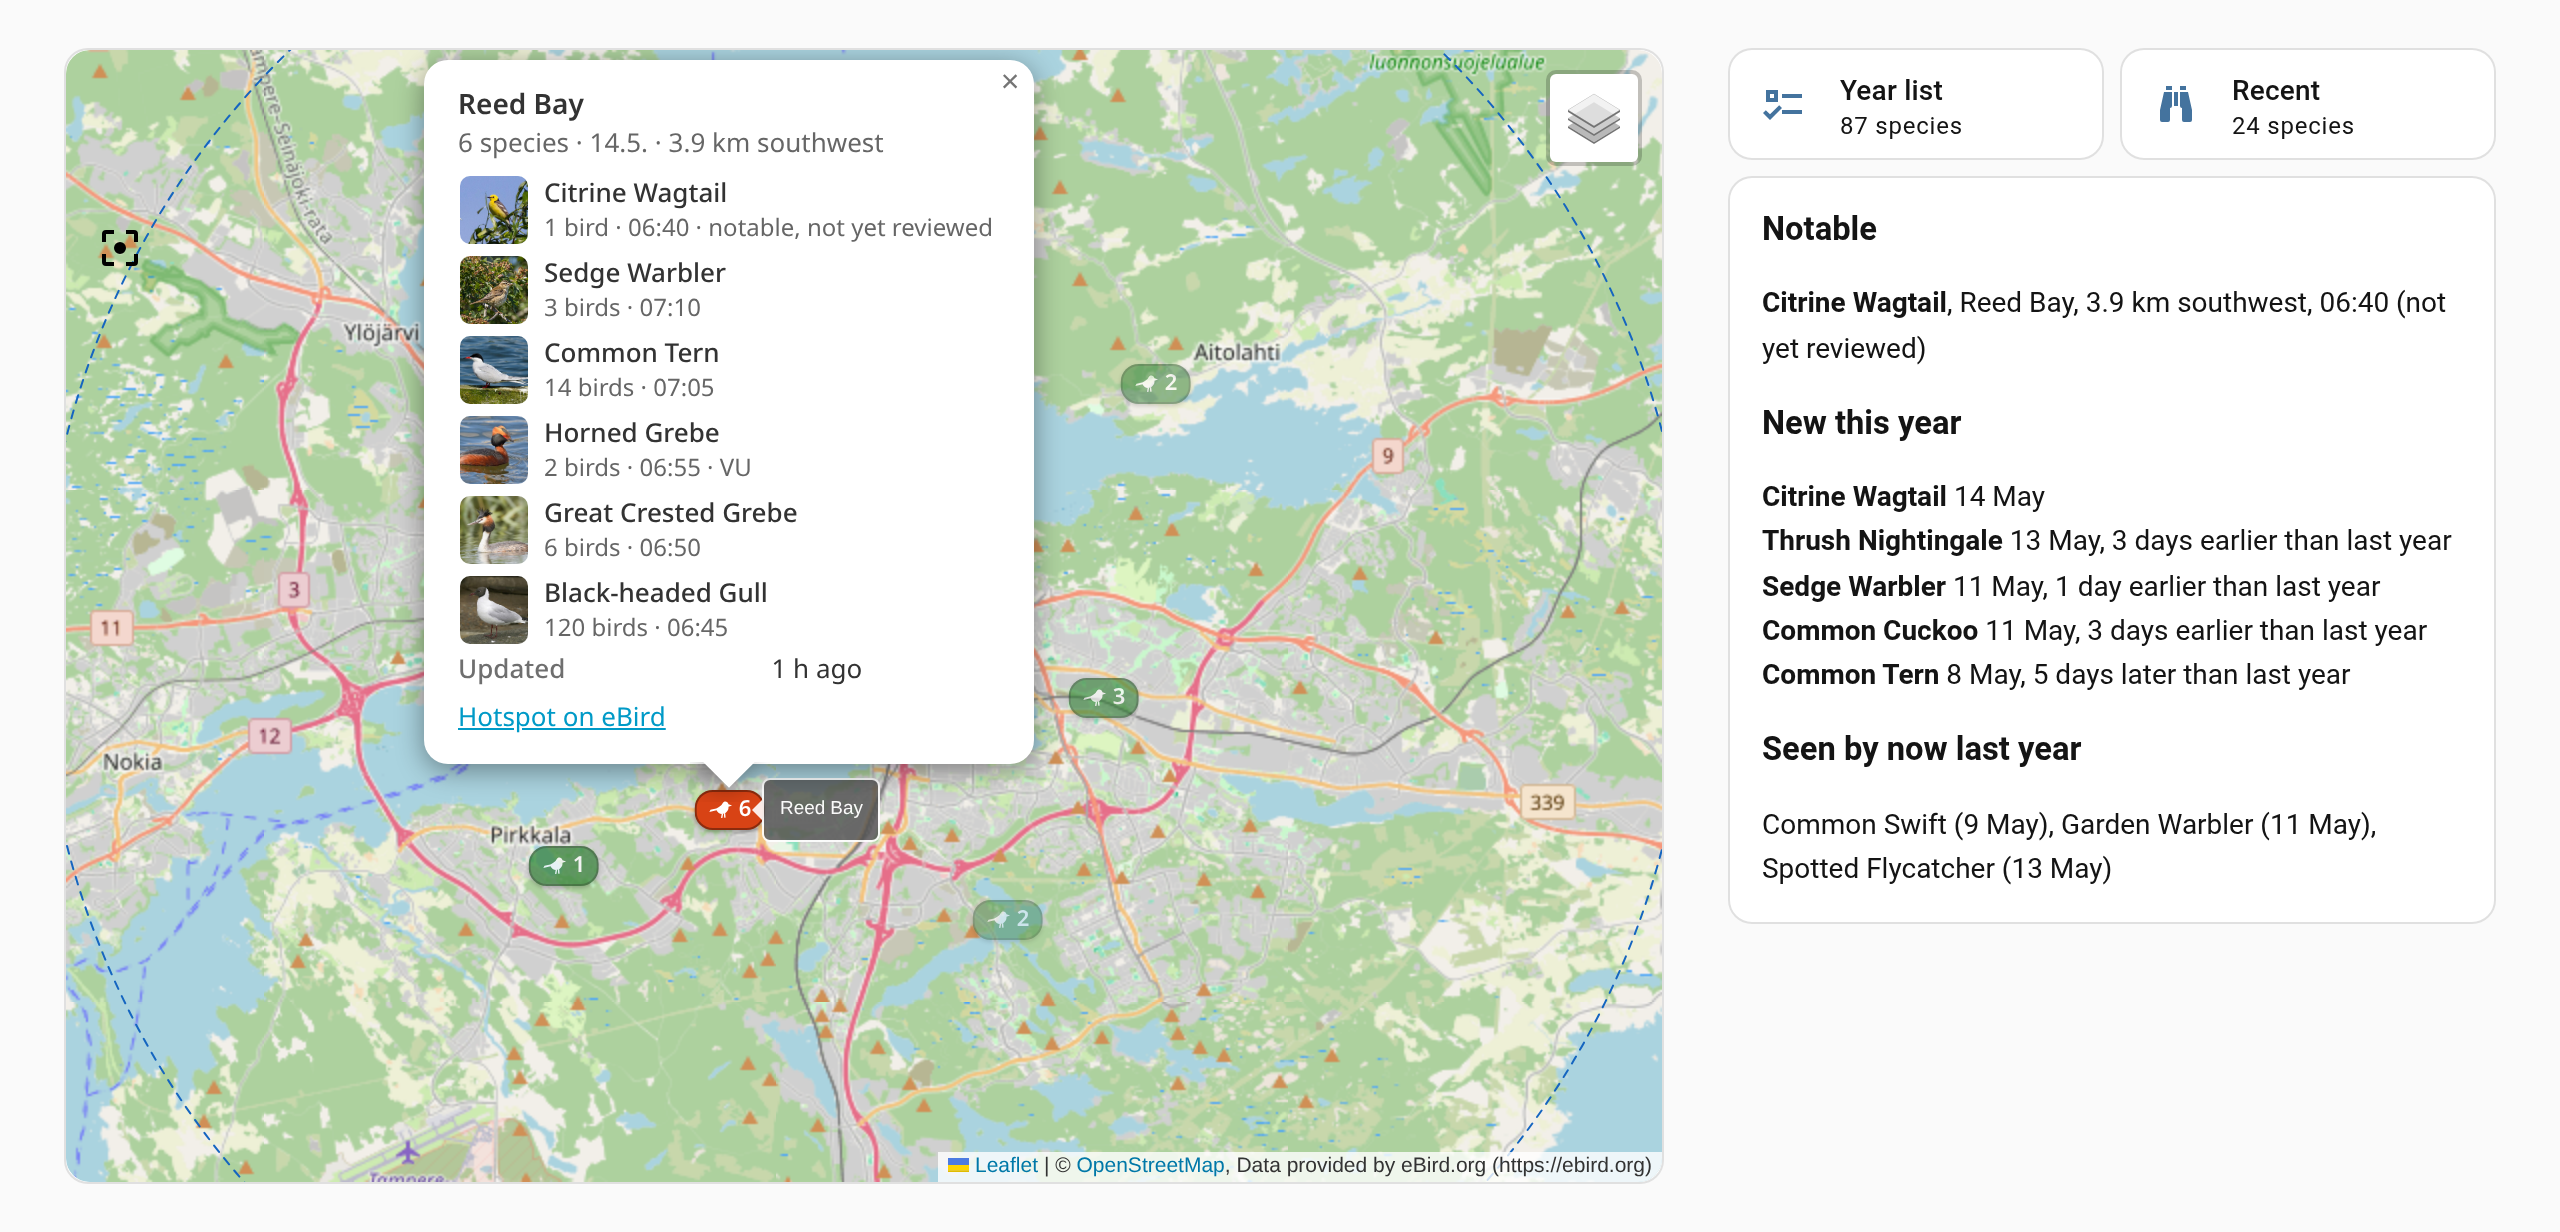
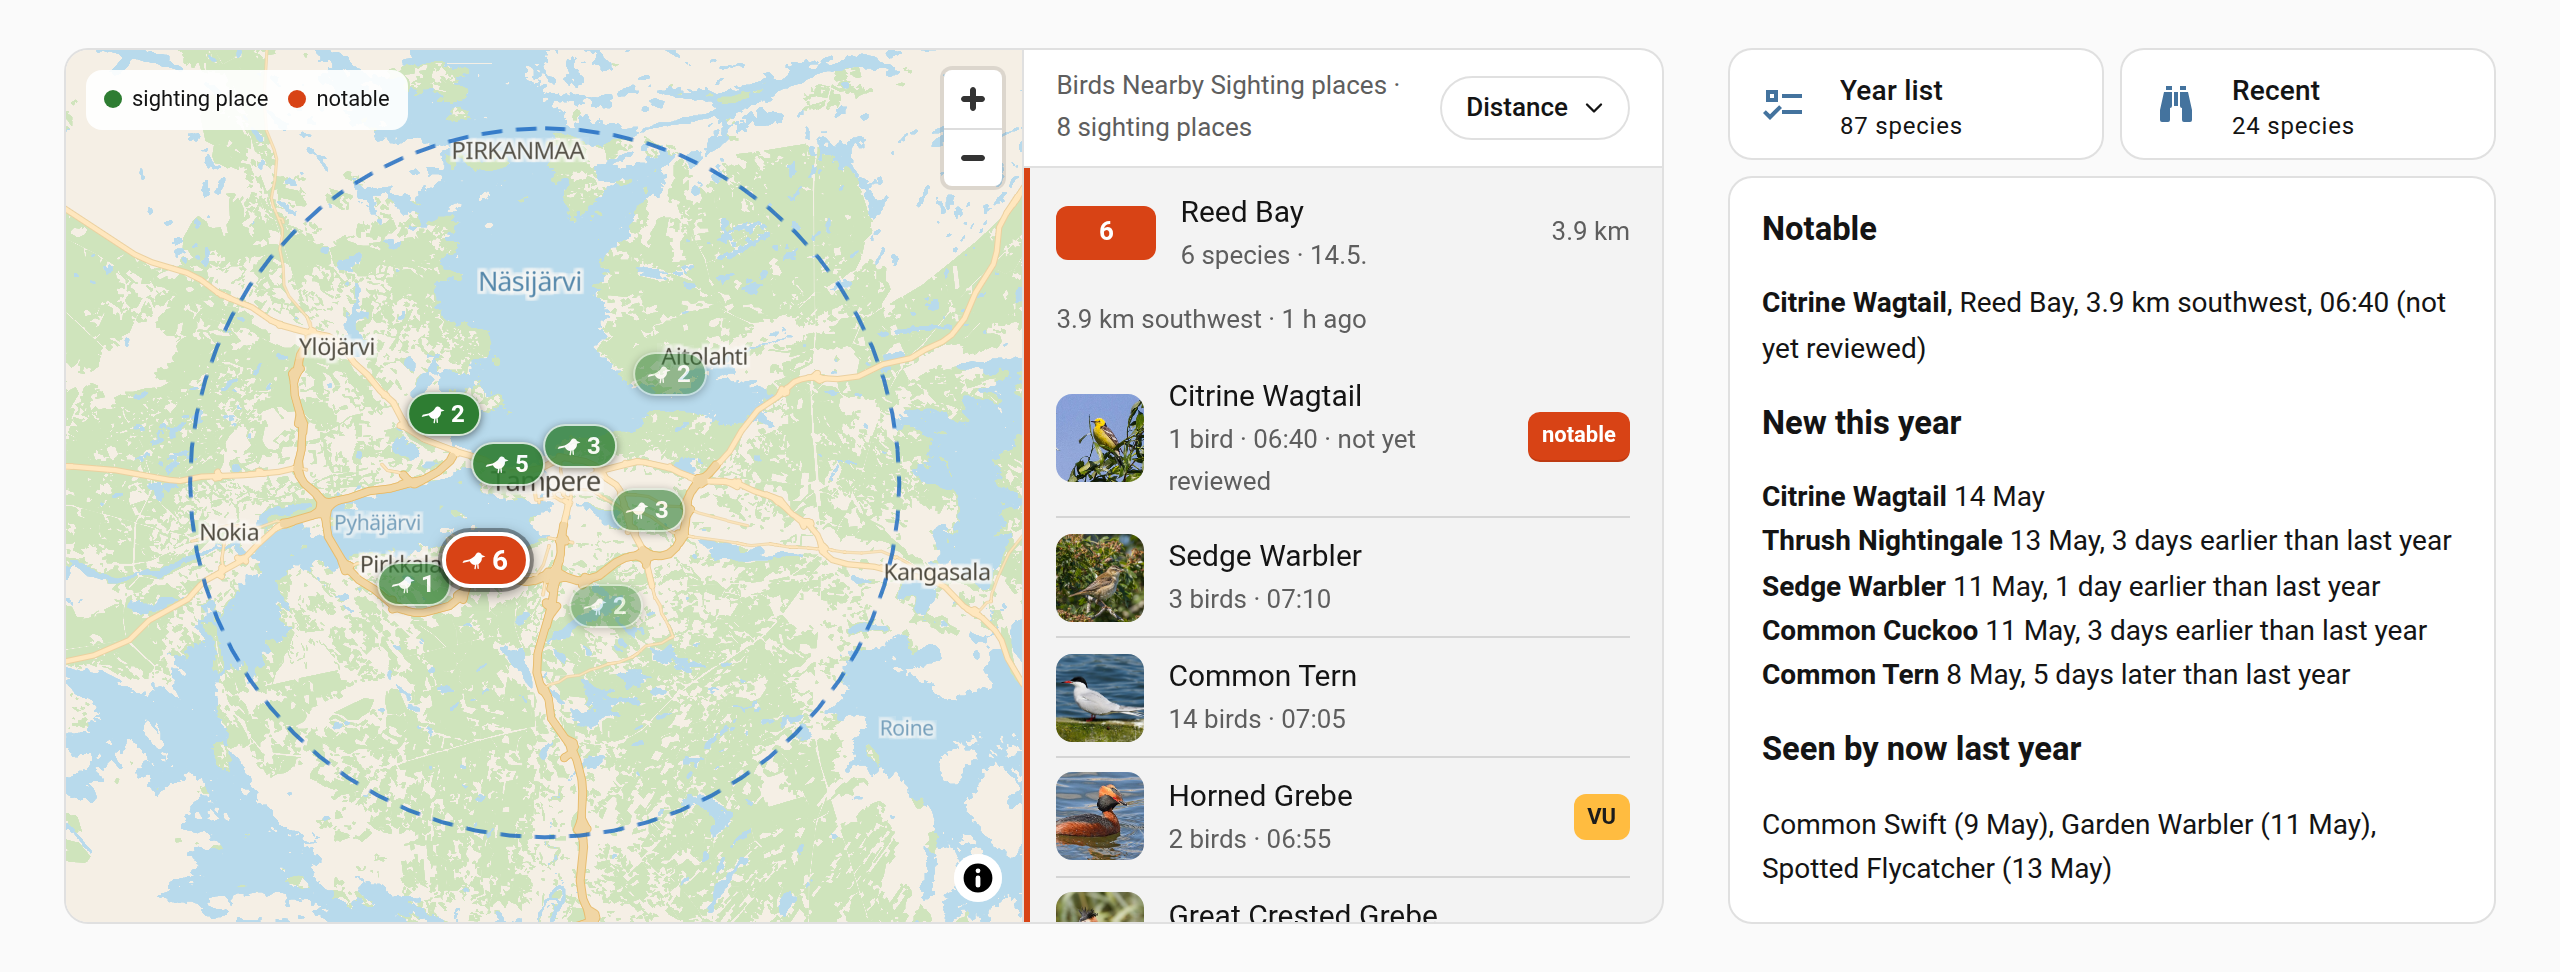
Screenshots with map-feed-card
The dashboard's map is map-feed-card with its list instead of ha-map-card with the plugin, and the made-up feed carries what 1.2.0 writes: its legend, list orders, distances, list rows and tags.

diff --git a/README.md b/README.md
@@ -5,8 +5,8 @@ first sightings of the year, and the sightings on a map.
 
 [![GitHub Release][releases-shield]][releases] [![GitHub Release Date][release-date-shield]][releases] [![HACS][hacs-shield]][hacs] [![License][license-shield]](LICENSE)
 
-<img src="https://raw.githubusercontent.com/jesmak/birds_nearby/main/docs/images/dashboard-light.png#gh-light-mode-only" width="1280" alt="A dashboard around Tampere, with a map of eight places where birds were seen, older ones fainter, and the popup of a place with a notable sighting listing six species with their pictures. Beside it the year list and recent species counts, and lists of the notable sighting, the newest species of the year compared with last year and the species seen by this date last year but not yet">
-<img src="https://raw.githubusercontent.com/jesmak/birds_nearby/main/docs/images/dashboard-dark.png#gh-dark-mode-only" width="1280" alt="A dashboard around Tampere, with a map of eight places where birds were seen, older ones fainter, and the popup of a place with a notable sighting listing six species with their pictures. Beside it the year list and recent species counts, and lists of the notable sighting, the newest species of the year compared with last year and the species seen by this date last year but not yet">
+<img src="https://raw.githubusercontent.com/jesmak/birds_nearby/main/docs/images/dashboard-light.png#gh-light-mode-only" width="1280" alt="A dashboard around Tampere, with a map of eight places where birds were seen, older ones fainter, and the list of them beside it, the place with a notable sighting open to its six species with their pictures and tags. Beside it the year list and recent species counts, and lists of the notable sighting, the newest species of the year compared with last year and the species seen by this date last year but not yet">
+<img src="https://raw.githubusercontent.com/jesmak/birds_nearby/main/docs/images/dashboard-dark.png#gh-dark-mode-only" width="1280" alt="A dashboard around Tampere, with a map of eight places where birds were seen, older ones fainter, and the list of them beside it, the place with a notable sighting open to its six species with their pictures and tags. Beside it the year list and recent species counts, and lists of the notable sighting, the newest species of the year compared with last year and the species seen by this date last year but not yet">
 
 The sightings in the picture are made up. The species pictures are from Wikimedia Commons. The Citrine Wagtail is by
 Ron Knight (CC BY 2.0), the Sedge Warbler by Charles J. Sharp (CC BY-SA 4.0), the Common Tern by MPF (CC BY-SA 4.0),
